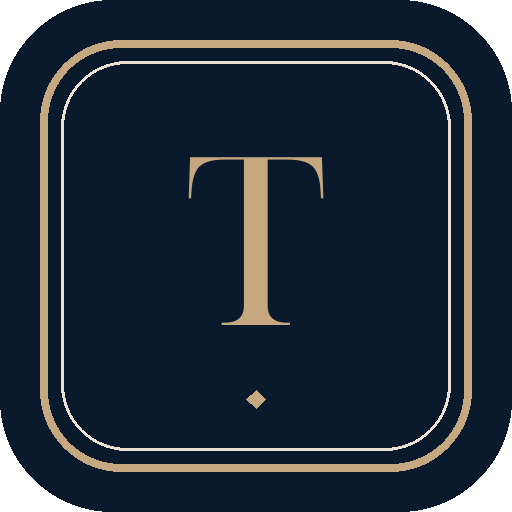
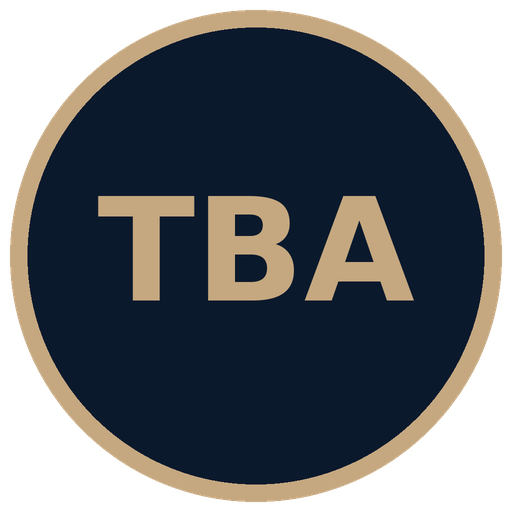
Intégrer la marque TBA (cercle TBA seul) (#133)
* Intégrer la marque TBA validée (favicon et logo)

Remplace le monogramme T carré par le badge circulaire TBA Luxury Travel
dans les favicons, le metadata Next.js, et les en-têtes vitrine / admin / client.

* Remplacer aussi les icônes Next.js dans app/

app/favicon.ico et app/icon.png servaient encore le monogramme T.

* Remplacer la marque par le cercle TBA seul

Benjamin : disque marine, filet champagne, TBA centré.
Plus de sous-titre LUXURY TRAVEL ni de monogramme T.

---------

diff --git a/components/admin/AdminNav.tsx b/components/admin/AdminNav.tsx
@@ -4,6 +4,7 @@ import Link from "next/link";
 import { FormEvent, useState } from "react";
 import { usePathname, useRouter } from "next/navigation";
 import { createClient } from "@/lib/supabase/client";
+import { AgencyLogo } from "@/components/AgencyLogo";
 import { Icon } from "@/components/crm/icons";
 import { siteConfig } from "@/lib/site";
 
@@ -96,9 +97,7 @@ export function AdminNav({
       <header className="sticky top-0 z-50 bg-[var(--admin-navy)] text-white lg:hidden">
         <div className="flex items-center justify-between gap-3 px-4 py-3">
           <Link href="/admin" className="flex min-w-0 items-center gap-2">
-            <span className="inline-flex h-9 w-9 items-center justify-center rounded-md border border-[var(--admin-gold)]/40 font-display text-[11px] font-extrabold tracking-wider text-[var(--admin-gold)]">
-              TBA
-            </span>
+            <AgencyLogo className="h-9 w-9" />
             <span className="truncate font-display text-sm font-semibold">Espace agence</span>
           </Link>
           <div className="flex shrink-0 items-center gap-2">
@@ -135,9 +134,7 @@ export function AdminNav({
       <aside className="z-50 hidden w-72 flex-col justify-between bg-[var(--admin-navy)] px-5 py-6 text-white lg:fixed lg:left-0 lg:top-0 lg:flex lg:h-full lg:shrink-0">
         <div className="flex flex-col gap-6">
           <Link href="/admin" className="flex items-center gap-3 px-1">
-            <span className="inline-flex h-10 w-10 items-center justify-center rounded-md border border-[var(--admin-gold)]/40 font-display text-[11px] font-extrabold tracking-wider text-[var(--admin-gold)]">
-              TBA
-            </span>
+            <AgencyLogo className="h-10 w-10" />
             <span className="flex flex-col leading-tight">
               <span className="font-label text-[10px] font-bold uppercase tracking-[0.16em] text-[var(--admin-gold)]">
                 Travel Business

diff --git a/components/crm/ui.tsx b/components/crm/ui.tsx
@@ -1,4 +1,5 @@
 import Link from "next/link";
+import { AgencyLogo } from "@/components/AgencyLogo";
 import { siteConfig } from "@/lib/site";
 import { Icon } from "@/components/crm/icons";
 
@@ -13,9 +14,7 @@ export function BrandMark({
 }) {
   return (
     <Link href={href} className="flex items-center gap-2.5">
-      <span className="inline-flex h-9 w-9 items-center justify-center rounded-md bg-[var(--admin-navy)] font-display text-[11px] font-extrabold tracking-wider text-[var(--admin-gold)] shadow-sm">
-        TBA
-      </span>
+      <AgencyLogo className="h-9 w-9" />
       <span className="flex min-w-0 flex-col leading-tight">
         <span className="font-label text-[10px] font-bold uppercase tracking-[0.14em] text-[var(--admin-gold)]">
           Travel Business Agency
@@ -146,9 +145,7 @@ export function ConciergeBanner({
         </span>
       </div>
       <div className="flex items-center gap-3">
-        <span className="inline-flex h-14 w-14 shrink-0 items-center justify-center rounded-full bg-[var(--admin-navy)] font-display text-[11px] font-extrabold tracking-wider text-[var(--admin-gold)] ring-2 ring-[var(--admin-gold)]/30">
-          TBA
-        </span>
+        <AgencyLogo className="h-14 w-14" />
         <div className="min-w-0">
           <p className="truncate font-display text-base font-semibold text-[var(--admin-navy)]">
             Travel Business Agency

diff --git a/lib/crm/entry-link.ts b/lib/crm/entry-link.ts
@@ -69,8 +69,10 @@ export function entryPreviewHtml(origin: string, code: string) {
 <meta name="twitter:title" content="${title}">
 <meta name="twitter:description" content="${description}">
 <meta name="twitter:image" content="${base}/og-concierge.png">
+<link rel="icon" href="${base}/favicon.ico" sizes="any">
+<link rel="icon" href="${base}/favicon-32.png" type="image/png" sizes="32x32">
 <link rel="icon" href="${base}/favicon.png" type="image/png" sizes="512x512">
-<link rel="apple-touch-icon" href="${base}/apple-touch-icon.png">
+<link rel="apple-touch-icon" href="${base}/apple-touch-icon.png" sizes="180x180">
 </head>
 <body style="margin:0;background:#0B192C;color:#F3EDE2;font-family:Georgia,serif">
 <form id="go" method="post" action="${page}" style="padding:48px">

diff --git a/app/layout.tsx b/app/layout.tsx
@@ -28,7 +28,13 @@ export const metadata: Metadata = {
   metadataBase: new URL(siteConfig.url),
   title: siteConfig.name,
   icons: {
-    icon: [{ url: "/favicon.png", type: "image/png", sizes: "512x512" }],
+    icon: [
+      { url: "/favicon.ico", sizes: "any" },
+      { url: "/favicon-16.png", type: "image/png", sizes: "16x16" },
+      { url: "/favicon-32.png", type: "image/png", sizes: "32x32" },
+      { url: "/favicon-48.png", type: "image/png", sizes: "48x48" },
+      { url: "/favicon.png", type: "image/png", sizes: "512x512" },
+    ],
     apple: [{ url: "/apple-touch-icon.png", sizes: "180x180" }],
   },
 };

diff --git a/lib/crm/entry-link.test.ts b/lib/crm/entry-link.test.ts
@@ -31,7 +31,9 @@ test("WhatsApp reçoit le titre sans consommer le jeton", () => {
   assert.match(html, /og:title" content="Le Concierge TBA"/);
   assert.match(html, /og:description" content="Votre espace vous attend."/);
   assert.match(html, /og:image" content="https:\/\/travelba\.fr\/og-concierge\.png"/);
+  assert.match(html, /favicon\.ico/);
   assert.match(html, /favicon\.png/);
+  assert.match(html, /apple-touch-icon\.png/);
   assert.equal(html.includes("token"), false);
   assert.equal(html.includes("hashed"), false);
 });

diff --git a/components/BrandMark.tsx b/components/BrandMark.tsx
@@ -1,9 +1,5 @@
-export function BrandMark({ className = "h-9 w-9 text-xs" }: { className?: string }) {
-  return (
-    <span
-      className={`inline-flex items-center justify-center rounded-full border border-[#C5A880] font-semibold tracking-[0.08em] text-[#C5A880] ${className}`}
-    >
-      TB
-    </span>
-  );
+import { AgencyLogo } from "./AgencyLogo";
+
+export function BrandMark({ className = "h-9 w-9" }: { className?: string }) {
+  return <AgencyLogo className={className} />;
 }

diff --git a/components/AgencyLogo.tsx b/components/AgencyLogo.tsx
@@ -1,0 +1,20 @@
+import { siteConfig } from "@/lib/site";
+
+export function AgencyLogo({
+  className = "h-9 w-9",
+  alt = siteConfig.name,
+}: {
+  className?: string;
+  alt?: string;
+}) {
+  return (
+    // eslint-disable-next-line @next/next/no-img-element -- marque locale, pas next/image
+    <img
+      src={siteConfig.logoSrc}
+      alt={alt}
+      width={36}
+      height={36}
+      className={`shrink-0 ${className}`}
+    />
+  );
+}

diff --git a/lib/site.ts b/lib/site.ts
@@ -2,6 +2,7 @@ export const siteConfig = {
   name: "Travel Business Agency",
   shortName: "TBA",
   url: "https://travelba.fr",
+  logoSrc: "/brand/logo-tba.png",
   // Adresse e-mail qui reçoit les demandes du formulaire de contact.
   contactEmail: "contact@travelba.fr",
   // Numéro WhatsApp Business au format international SANS le "+" ni espaces.

diff --git a/public/brand/README.md b/public/brand/README.md
@@ -1,0 +1,21 @@
+# Travel BA — marque validée (2026-09-24)
+
+Circular monogram only. No compass rose. No subtitle.
+
+## Mark
+
+- Bold sans **TBA** centered on a navy disk
+- Navy `#0B192C`
+- Thin champagne ring `#C5A880`
+- No “LUXURY TRAVEL”, no divider
+
+## Files
+
+| Path | Use |
+|------|-----|
+| `logo-tba.png` | UI (1024 master) |
+| `travelba-whatsapp-badge-only.png` | WhatsApp profile crop (640, same mark) |
+| `/favicon.ico` | Browser tab (`public/` + `app/favicon.ico`) |
+| `/favicon-16.png` `/favicon-32.png` `/favicon-48.png` | PNG favicons |
+| `/favicon.png` | 512 source (also `app/icon.png`) |
+| `/apple-touch-icon.png` | iOS home screen (180, also `app/apple-icon.png`) |
